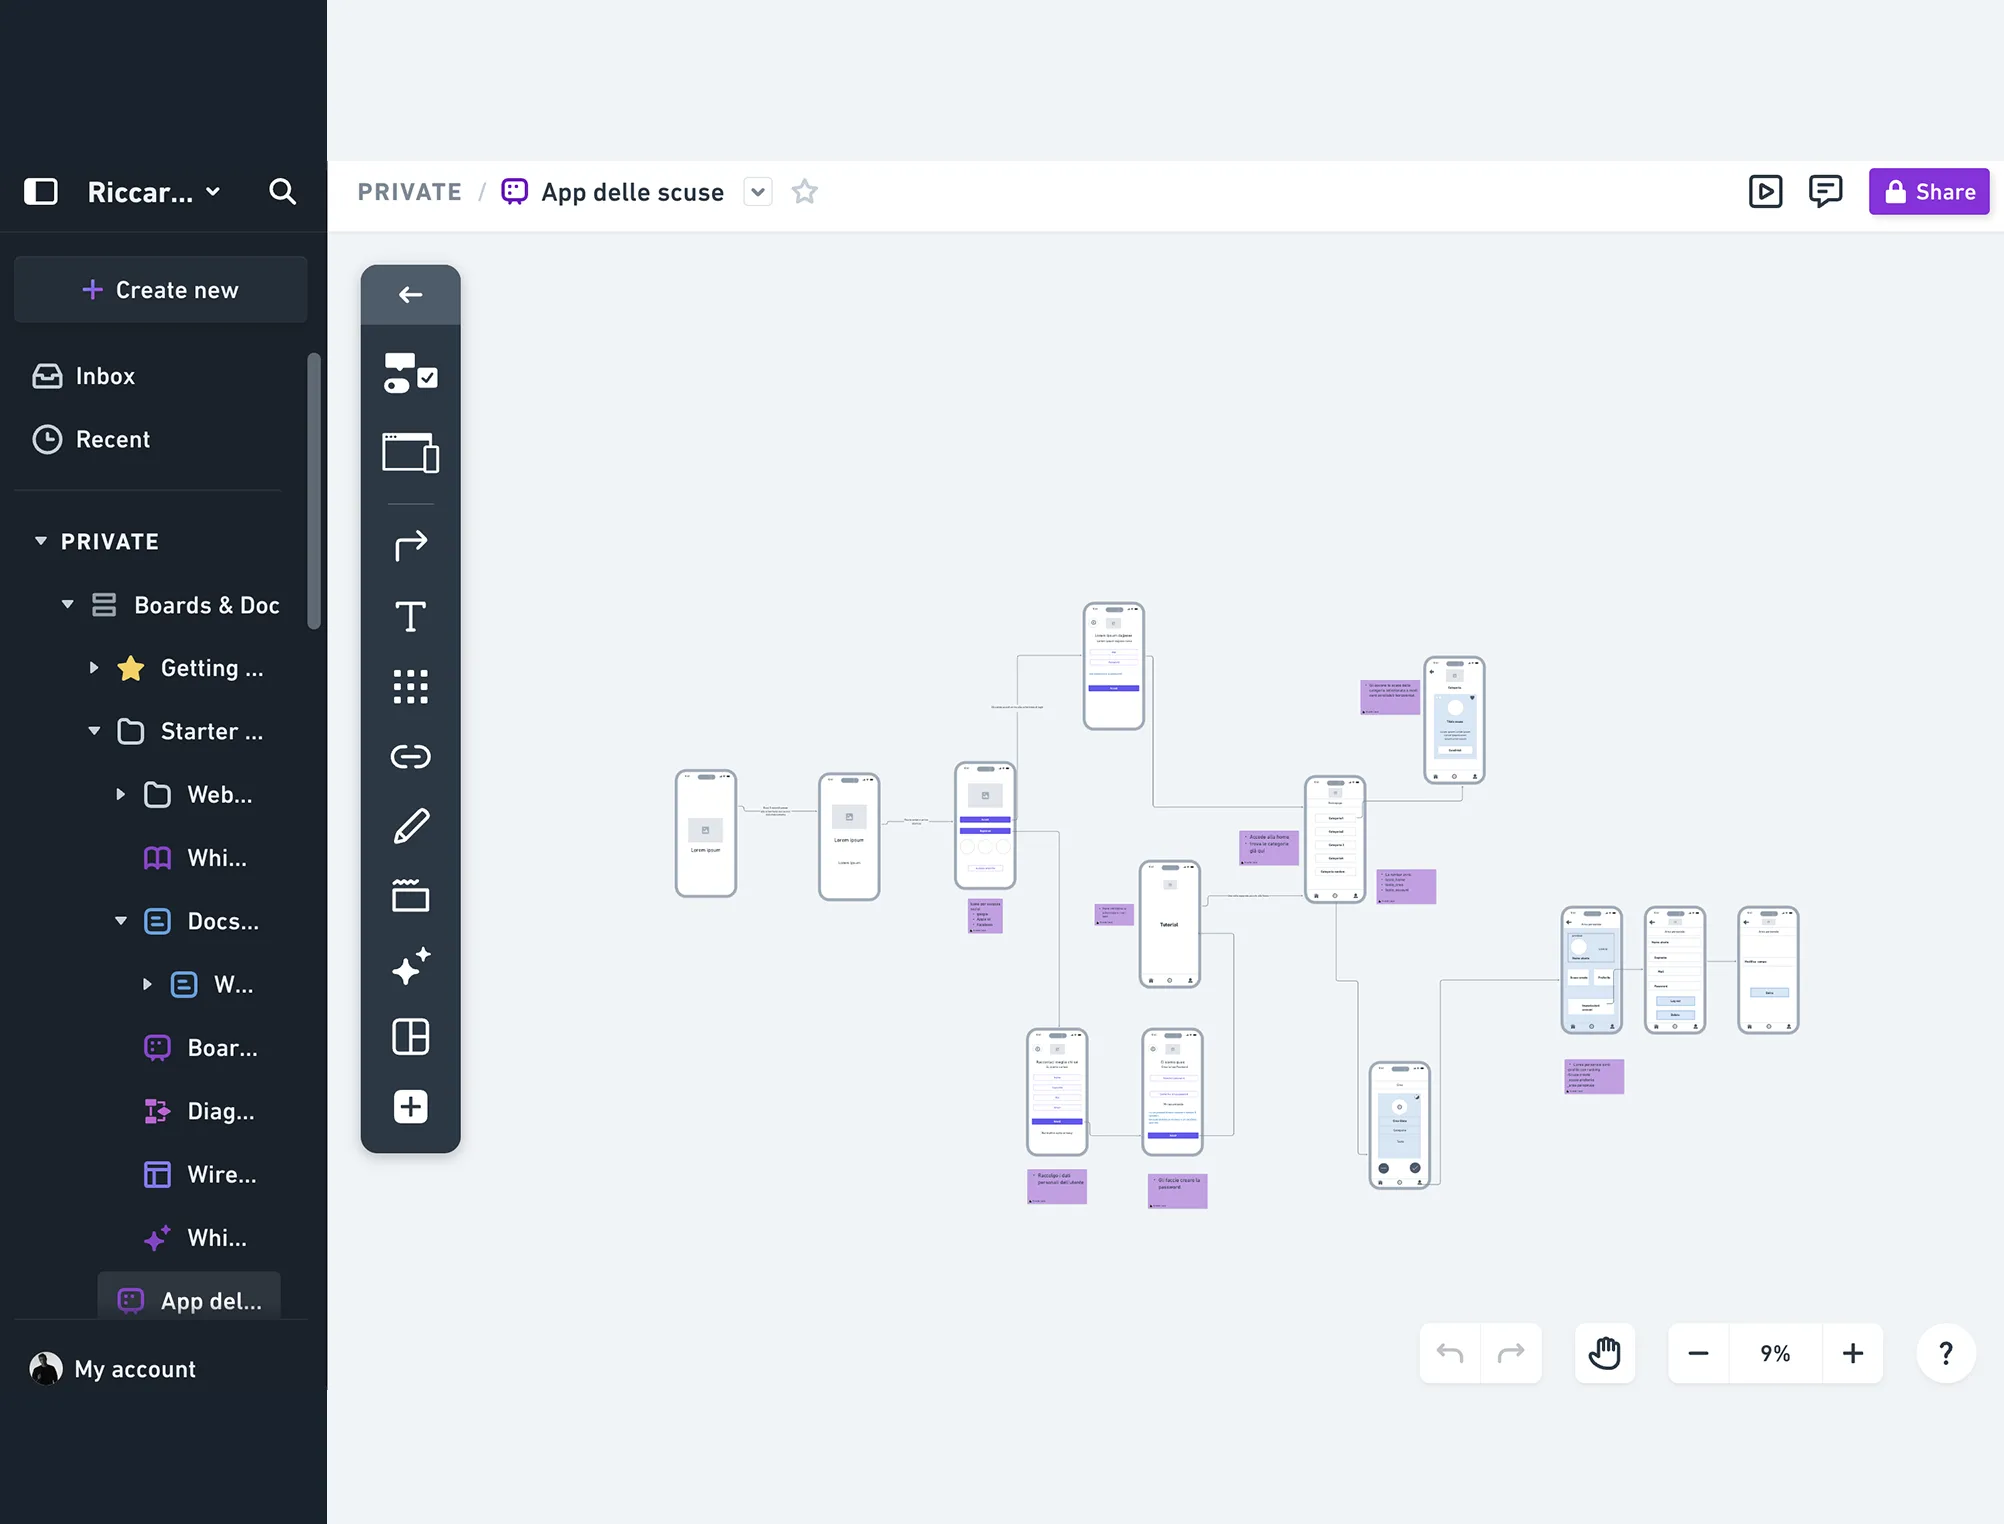
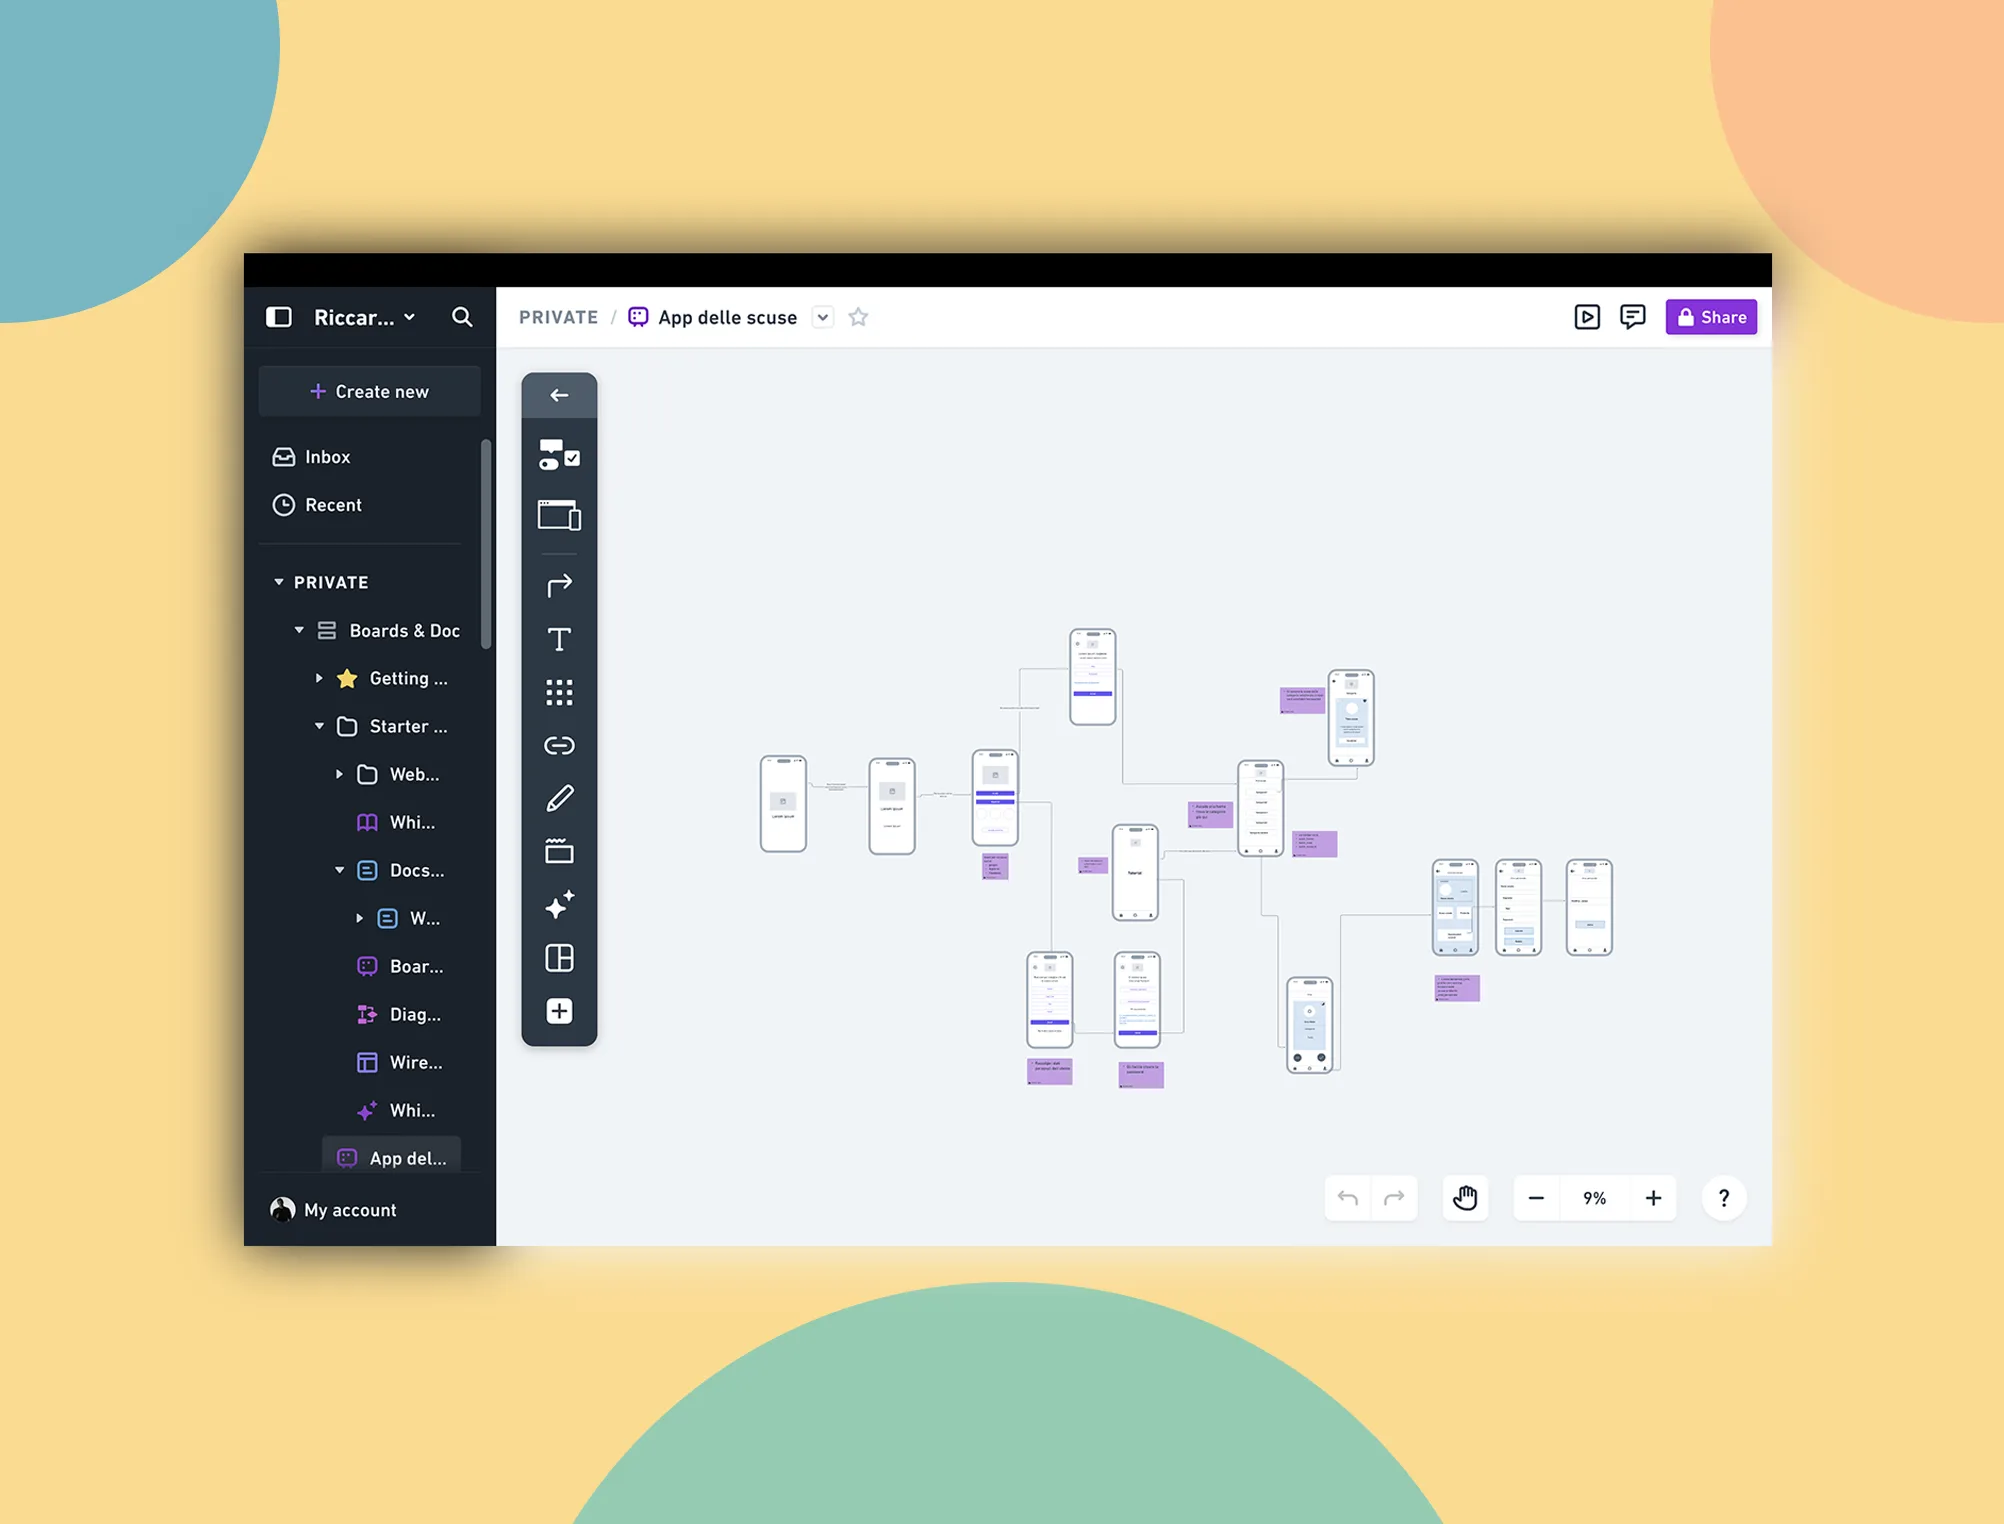
Aggiungi nuove immagini per il progetto Opsify e aggiorna i riferimenti nelle pagine Services e Project 5.

diff --git a/src/pages/Services.vue b/src/pages/Services.vue
@@ -18,7 +18,7 @@
 
     <div class="services-grid grid grid-cols-1 sm:grid-cols-2 gap-8 md:gap-10 lg:gap-12 px-2 items-stretch auto-rows-fr">
       <!-- Card 1 -->
-      <article class="service-card bg-transparent border p-8 rounded-2xl hover:border-blue-500 flex flex-col justify-between h-full w-full" tabindex="0">
+      <article class="service-card bg-transparent border p-8 rounded-2xl flex flex-col justify-between h-full w-full" tabindex="0">
         <h2 class="text-xl font-semibold text-white mb-3">Web Design & Development</h2>
         <p class="text-white/70 leading-relaxed text-[15px]">Realizzo siti chiari, leggeri e ben strutturati, con attenzione a design, responsive e performance.</p>
         <ul class="mt-4 space-y-1 text-white/60 text-sm">
@@ -30,7 +30,7 @@
       </article>
 
       <!-- Card 2 -->
-      <article class="service-card bg-transparent border p-8 rounded-2xl hover:border-blue-500 flex flex-col justify-between h-full w-full" tabindex="0">
+      <article class="service-card bg-transparent border p-8 rounded-2xl flex flex-col justify-between h-full w-full" tabindex="0">
         <h2 class="text-xl font-semibold text-white mb-3">UI/UX Design</h2>
         <p class="text-white/70 leading-relaxed text-[15px]">Progetto interfacce semplici da usare, riducendo attriti e complessità.</p>
         <ul class="mt-4 space-y-1 text-white/60 text-sm">
@@ -42,7 +42,7 @@
       </article>
 
       <!-- Card 3 -->
-      <article class="service-card bg-transparent border p-8 rounded-2xl hover:border-blue-500 flex flex-col justify-between h-full w-full" tabindex="0">
+      <article class="service-card bg-transparent border p-8 rounded-2xl flex flex-col justify-between h-full w-full" tabindex="0">
         <h2 class="text-xl font-semibold text-white mb-3">Brand Identity & Art Direction</h2>
         <p class="text-white/70 leading-relaxed text-[15px]">Definisco identità visive coerenti, leggibili e riconoscibili.</p>
         <ul class="mt-4 space-y-1 text-white/60 text-sm">
@@ -54,7 +54,7 @@
       </article>
 
       <!-- Card 4 -->
-      <article class="service-card bg-transparent border p-8 rounded-2xl hover:border-blue-500 flex flex-col justify-between h-full w-full" tabindex="0">
+      <article class="service-card bg-transparent border p-8 rounded-2xl flex flex-col justify-between h-full w-full" tabindex="0">
         <h2 class="text-xl font-semibold text-white mb-3">SEO & Web Optimization</h2>
         <p class="text-white/70 leading-relaxed text-[15px]">Ottimizzo struttura, contenuti e performance per un sito più veloce e più trovabile.</p>
         <ul class="mt-4 space-y-1 text-white/60 text-sm">
@@ -105,7 +105,6 @@
 .service-card:hover,
 .service-card:focus {
   transform: translateY(-0.375rem) scale(1.03) translateZ(0) !important;
-  border-color: rgba(96,165,250,1);
   will-change: transform;
 }
 

diff --git a/src/pages/projects/project-5.vue b/src/pages/projects/project-5.vue
@@ -98,7 +98,7 @@ Ho scelto di utilizzare dunque un Tov amichevole ed informale nella applicazione
           </div>
           <div class="w-full">
             <div class="w-full aspect-[4/3] overflow-hidden">
-              <img src="../../assets/p1slide2.webp" alt="Materials" class="reveal-img w-full h-full object-cover" />
+              <img src="../../assets/oopsyf.webp" alt="Materials" class="reveal-img w-full h-full object-cover" />
             </div>
           </div>
         </div>
@@ -110,7 +110,7 @@ Ho scelto di utilizzare dunque un Tov amichevole ed informale nella applicazione
         <div class="grid grid-cols-1 md:grid-cols-[60%_40%]">
           <div class="w-full">
             <div class="w-full aspect-[4/3] overflow-hidden">
-              <img src="../../assets/p1slide3.webp" alt="3D" class="reveal-img w-full h-full object-cover" />
+              <img src="../../assets/opsyfyproto.webp" alt="3D" class="reveal-img w-full h-full object-cover" />
             </div>
           </div>
           <div class="px-6 md:pr-20 flex items-center justify-center md:justify-start">
